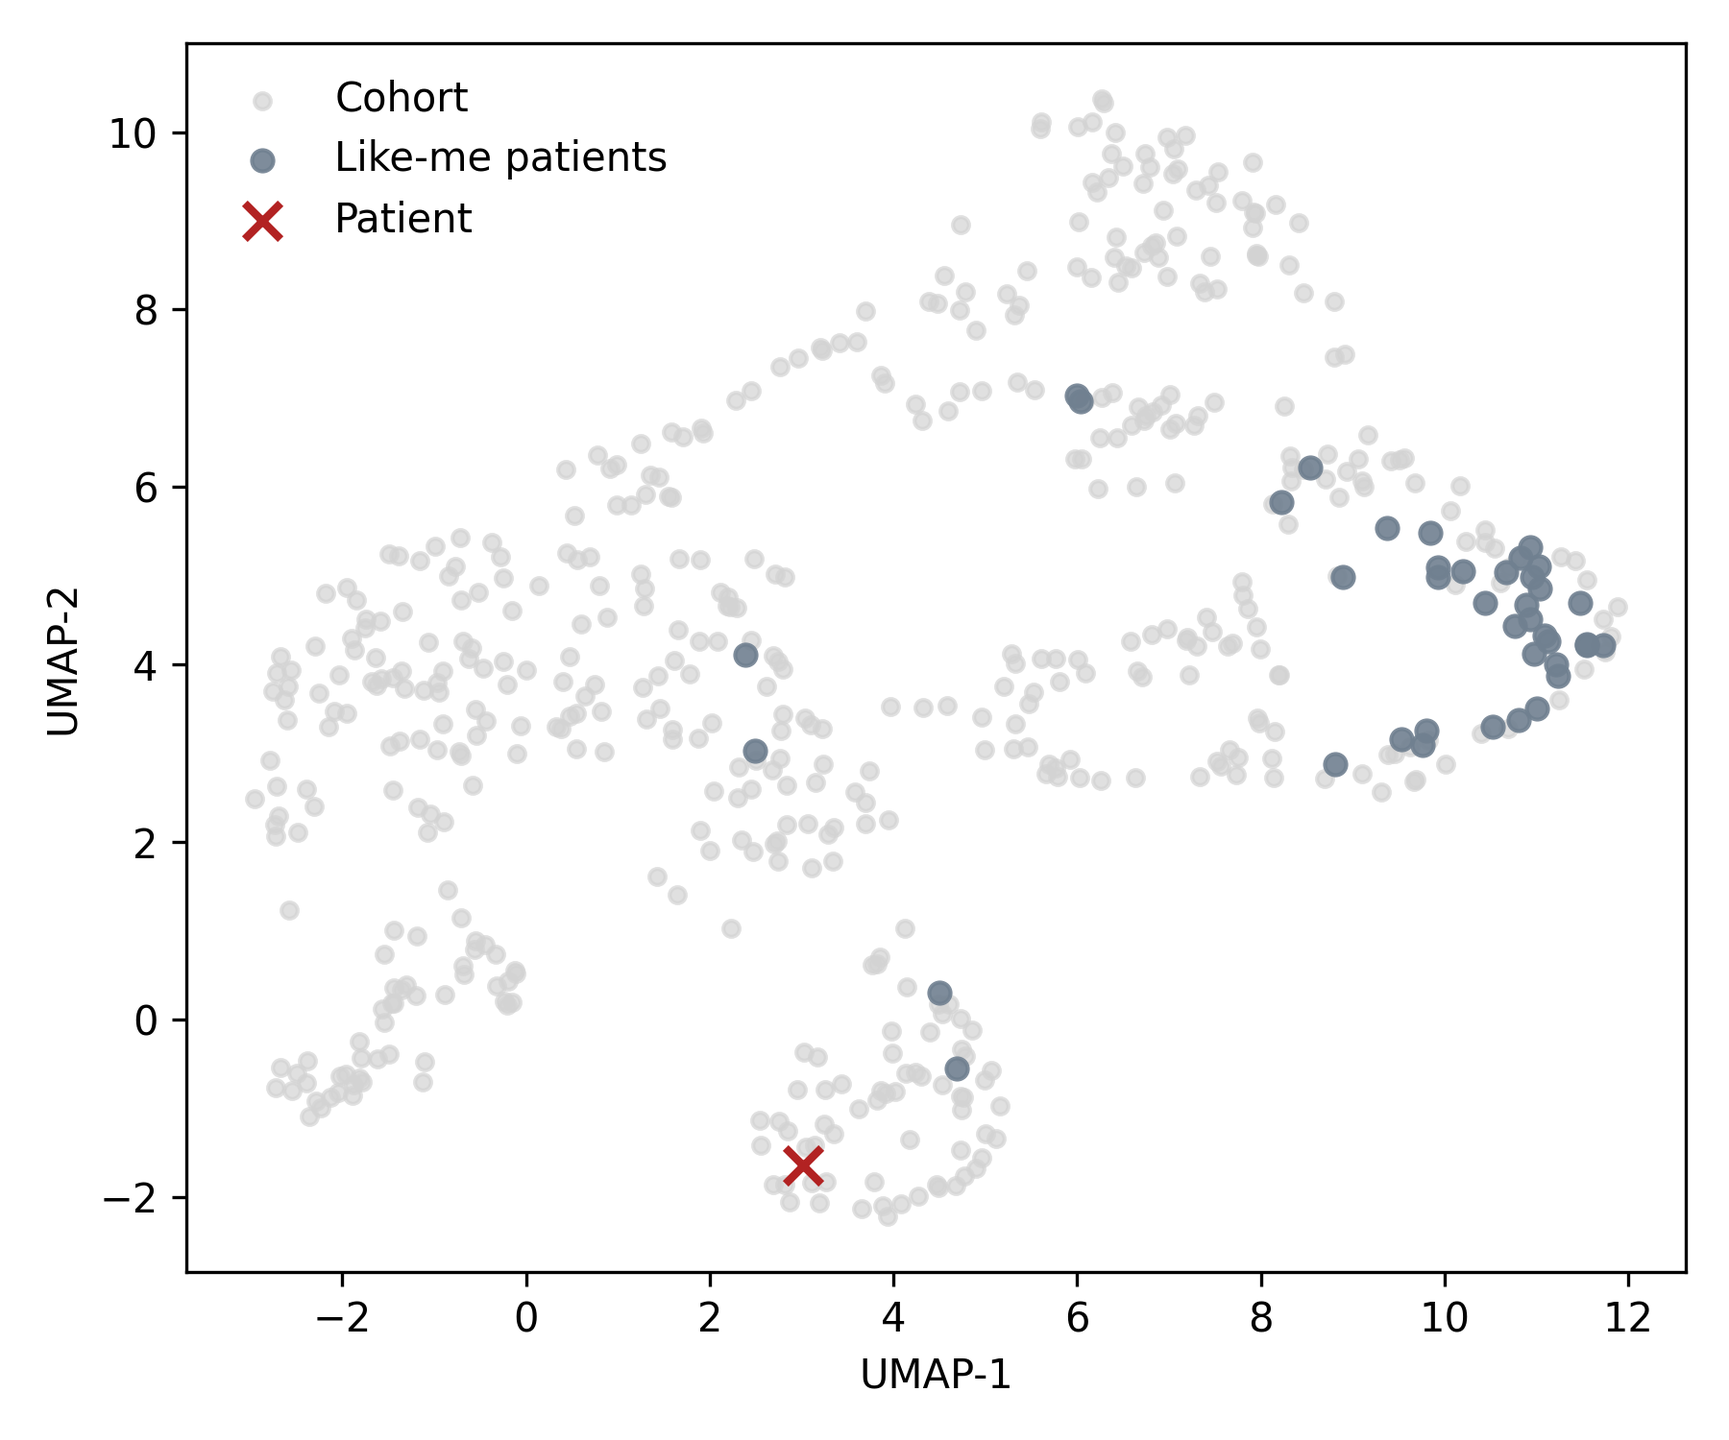
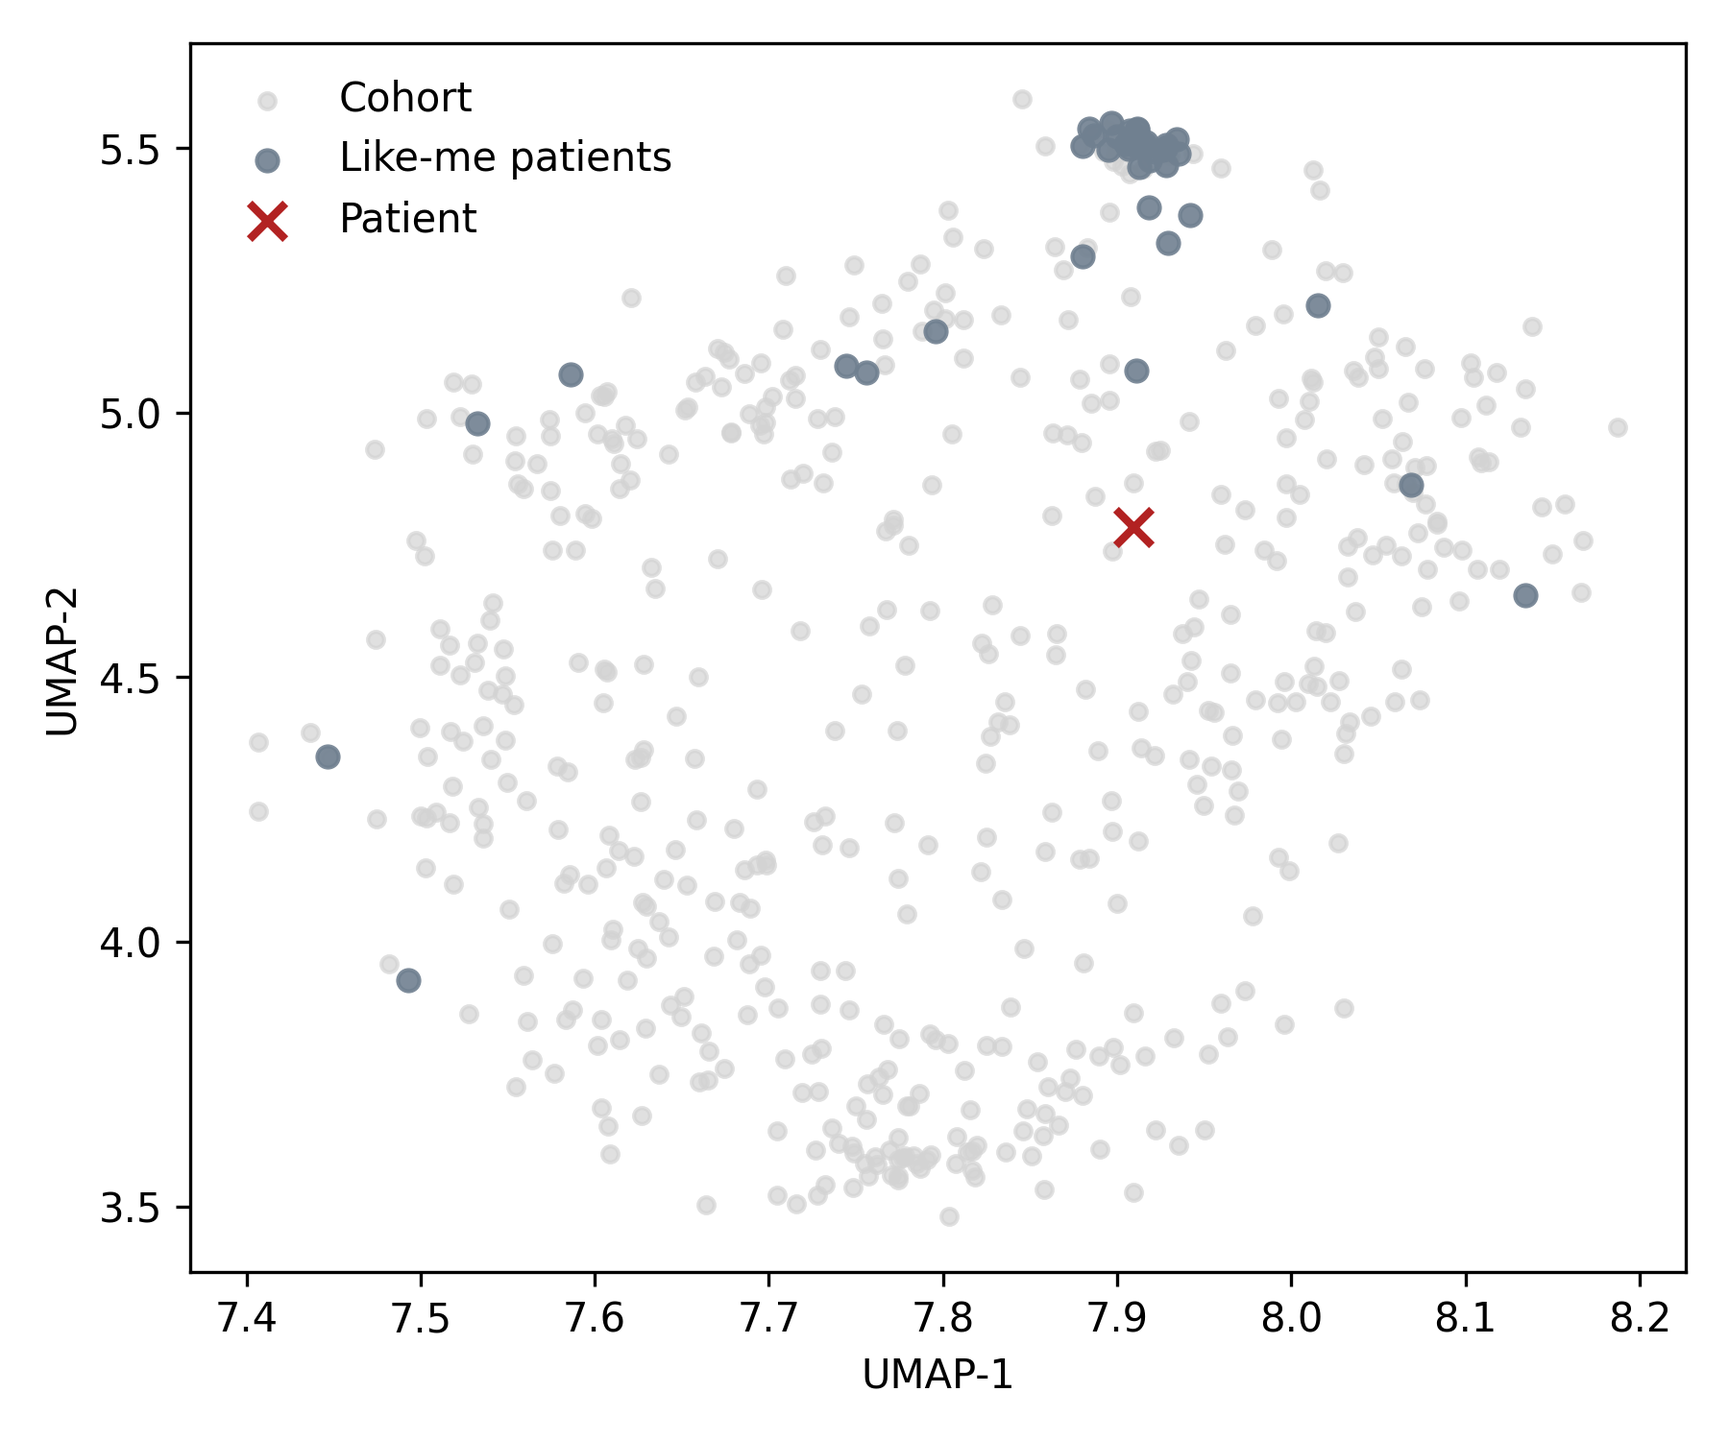
fix grid search for UMAP

diff --git a/UMAP_visuals.py b/UMAP_visuals.py
@@ -6,6 +6,7 @@ from distances import sample, idx
 import pandas as pd 
 import numpy as np
 import time as time
+from datetime import datetime
 
 import matplotlib.pyplot as plt
 from mpl_toolkits.mplot3d import Axes3D
@@ -28,16 +29,18 @@ cohort_mask = ~(patient_mask | like_me_mask)
 
 ################
 # UMAP for loop to tune hyper_params
+randomness = [42, 43, 1997, 1989] #
+neighbors = [10, 20, 40, 80, 100, 150, 200] #
+min_d = [0.0, 0.01, 0.05, 0.10, 0.15, 0.20, 0.30] #
+metric = ['euclidean', 'cosine', 'correlation', 'mahalanobis'] #
+spread = [0.10, 0.20, 0.30, 0.60, 0.80, 0.99] #
+
+umap_performance = pd.DataFrame(columns=['randomness', 'neighbors', 'min_d', 'metric', 'spread', 'within_sum_of_squares', 'between_sum_of_squares', 'ratio'])
+
+number_of_combinations = (len(randomness)*len(neighbors)*len(min_d)*len(metric)*len(spread))
+print(number_of_combinations)
+
 start = time.time()
-
-randomness = [42, 43, 44, 45, 1997, 1989]
-neighbors = [5, 10, 20, 40, 80, 100, 150, 200]
-min_d = [0.0, 0.01, 0.05, 0.10, 0.25, 0.50, 0.75, 0.90, 0.99]
-metric = ['euclidean', 'cosine', 'correlation', 'mahalanobis', 'yule']
-spread = [0.001, 0.05, 0.10, 0.25, 0.50, 0.75, 1.0, 1.5, 2.0, 4.0]
-
-umap_performance = []
-
 for r in randomness:
     for n in neighbors:
         for d in min_d:
@@ -88,7 +91,7 @@ for r in randomness:
                     ratio = within_ss/between_ss
 
                     # save params and performance
-                    umap_performance.append({
+                    iteration_performance = {
                         'randomness': r,
                         'neighbors': n,
                         'min_d': d,
@@ -97,26 +100,30 @@ for r in randomness:
                         'within_sum_of_squares': within_ss,
                         'between_sum_of_squares': between_ss,
                         'ratio': ratio
-                    })
+                    }
+                    umap_performance.loc[len(umap_performance)] = iteration_performance
 
+                    current_time = datetime.now().strftime("%Y-%m-%d")
+                    save_name = f"../Data/umap_performance{current_time}.csv"
+                    umap_performance.to_csv(save_name)
 end = time.time()
 print(f"{(end-start)/60} minutes to run")
 
-# save performance
-umap_performance = pd.DataFrame(umap_performance)
-umap_performance.sort_values(by='ratio', ascending=True, inplace=True)
-umap_performance.to_csv("../Data/umap_performance.csv")
+###################################
+# load final doc and sort performance
+final_performance = pd.read_csv(save_name) # replace with actual file name: "../Data/umap_performance{date}.csv"
+final_performance.sort_values(by='ratio', ascending=True, inplace=True)
 
-umap_performance.head()
+final_performance.head()
 
 #############
 # final UMAP with tuned hyper_params
 reducer = umap.UMAP(
-    n_neighbors=umap_performance['neighbors'].iloc[0],
-    min_dist=umap_performance['min_d'].iloc[0],
-    metric=umap_performance['metric'].iloc[0],
-    spread=umap_performance['spread'].iloc[0],
-    random_state=umap_performance['randomness'].iloc[0]
+    n_neighbors=final_performance['neighbors'].iloc[0],
+    min_dist=final_performance['min_d'].iloc[0],
+    metric=final_performance['metric'].iloc[0],
+    spread=final_performance['spread'].iloc[0],
+    random_state=final_performance['randomness'].iloc[0]
     )
 two_dim = reducer.fit_transform(cohort)
 

diff --git a/README.md b/README.md
@@ -1,15 +1,26 @@
 # A Patients-Like-Me approach to aggregating data in clinical management of concussion
 
-**Purpose:** Complex prediction models, such as neural networks, tree-based classifiers, or even simple regressions, can tell patients and clinicians when an individual is expected to recover from concussion (or a number of other conditions, as these models continue to expand in popularity and use), but suffer from a few main limitations:  
-- Most prediction models are trained on large cohorts with diverse patient and injury characteristics
-    - Thus, generalization to a more precise patient population in a real-world setting can be limitted - patients are left asking "but do these results apply to *me*?" and clinicians are left wondering if prediction models are accurate in thier patient population  
-- Few prediction models can provide clear reasoning for *why* or *how* a prediction is made, or what factors where most influental in the prediction that is made 
-    - Clinicians and patients, therefore, may not always strongly consider the predictions made by the model
+**Summary:** This project demonstrates a simple "like-me" approach to matching patients to a reference cohort based on post-concussion demographic and clinical 
+characteristics. Using a like-me matched sub-cohort, we can then aggregate clinical data for individuals within the reference cohort who are most-similar to the 
+presenting patient, providing summary statistics on recovery and other important health information among individuals from the larger cohort who are "as similar as possible" to 
+the individual being seen for care.  
+
+## Purpose: 
+
+Complex prediction models, such as neural networks, tree-based classifiers, or simple regressions, can inform patients and clinicians about expected recovery timelines. 
+However, these models are limitted by a few factors: 
+- Most prediction models are trained on large cohorts with diverse patient and injury characteristics.
+    - While usually considered a strength, in some contexts generalization to a more precise patient population in a real-world setting can be limitted - patients are left 
+    asking "but do these results apply to *me*?" and clinicians are left wondering if prediction models are accurate in thier patient population.
+- Few prediction models can provide clear reasoning for *why* or *how* a prediction is made, or what factors where most influental in a prediction. 
+    - Clinicians and patients, therefore, may not always strongly consider predictions made by the model
 - Prediction models, especially classifiers, can treat medical diseases as a series of binary decisions made in sequence 
-    - Actual clinical management of disease is more complex, and clinicians must use all available information to guide decisions that promote long-term health and recovery, while prediction models often evaluate the best decision to improve the current disease state with little longitudinal context
+    - Actual clinical management of disease is more complex, and clinicians must use all available information to guide decisions that promote long-term health and recovery, 
+    while prediction models often evaluate the best decision to improve the current disease state with little longitudinal context
 
 Taken together, a quality data science and machine learning approach to supporting practitioners might consider:
-1. Using similarity matching to take the current individuals's clinical presentation (demographics, injury characteristics, etc) and identify past patients with similar characteristics
+1. Using similarity matching to take the current individuals's clinical presentation (demographics, injury characteristics, etc) and identify past patients with similar 
+characteristics
 2. Explore the health and recovery outcomes of those similar past patients to inform potential recovery for the current individual
 3. Package this information together in an easy-to-use dashboard so that clinicians and patients can explore how other's "like them" recovered!
 
@@ -17,38 +28,134 @@ Taken together, a quality data science and machine learning approach to supporti
 
 #### An Overview:
 
-1. A sample of patients seen for post-concussion care in our sports medicine clinic (n=558)
+1. Generate a reference cohort of patients seen for post-concussion care in our sports medicine clinic (n=558)
     - Limit to just the high level features... this is a proof of concept project, so feasability is most important right now (9 features total)
-    - One-hot for categoricals
 2. Impute missing data
-    - Impution strategy was KNN (K=20) 
+    - Impution strategy was KNN (K=40) 
     - Works well for numerics, but doesn't have a built-in option for categoricals
         - My desire would be "most frequent" for categorical imputations
         - Without that as a built-in option, KNN already calculates the mean value for the 'K' nearest neighbors
             - Because categoricals are already one-hot encoded, I can just round to the nearest integer to get the "most frequent" for my imputed values
 3. Normalize the data, Min-Max
     - Need to do this after the imputation, unfortunately. Otherwise my above rounding option won't work
-    - Limitation is that variables are not on the same scale during KNN imputation, which can create some bias. 
-4. Mahalanobis distance tells us how similar an individual vector to a distribution of vectors
-    - Answers the question of "how unique is the current patient's clinical presentation? Are they an outlier or atypical?" 
-5. Evaluate similarity **Possible methods to try** 
-    - Cosine similarity (closer to 1 = similar)
-    - Dot product / max(norm(both vectors)) (closer to 1 = similar)
-    - Euclidean distance (lower = similar)
-    - Mahalanobis distance - accounts for variance and correlation (lower = similar)
-6. Use mean-centering to adjust distances to be more interpretable 
-    - Distances are more-or-less non-interpretable values anyway, so centering at zero at least provides some context...
-6. Do actual clustering algorithm
-    - Extract some meaning from the clusters, what factors are they associated with? What features characterize each cluster?
-    - See what cluster the new patient would fall into
-7. Use UMAP, t-nSE, or PCA to visualize
-    - 1D: Mahalanobis distance for how much of an 'outlier' this person is. 
-        - KDE plot, with patient value highlighted as vertical line?
-    - 2D: Scatter plot with current patient's dot highlighted, and the nearest X number of patients also highlighted
-    - Box-plots: of each feature to show where the patient value stacks up among the patients-like-them 
-    - Some special visual for the recovery outcomes
+    - Limitation is that variables are not on the same scale during KNN imputation, which can create some bias.
+4. Apply some scaling to categorical variables. 
+    - When measuring distances (euclidean, for example), the scale of the data is a major factor
+        - This is why something like min-max scaling is important
+    - But, if many binary variables are present, then those variables after one-hot encoding are all either 0 or 1. 
+        - When numerics are also min-max scaled, then 0 is the lowest value in the dataset and 1 is the largest
+        - Therefore, if comparing a numeric and a categorical, a 1-unit differenc
+         in the categorical variable is a simple difference of binary category. But a 1-unit difference in the numeric variable is the entire range of the variable...
+        - These things are not equal... theoretically, the 'distance' between a boy and a girl (binary sex categorical feature) much smaller than that between the minimum and 
+        maximum value of BESS errors (a balance test). 
+    - How do we fix this?
+        - Scale the categorical variables down after min-max is applied. Multiply the categorical variable by some scalar (I used 0.66), to down-weight the literal distances 
+        between the two levels of the feature.
+            - In this way, they contribute less (66% as much, actually) to the distance measurements. 
+        - Why 0.66? An arbitrary choice on my end. 
+            - Instead, I could have 'tuned' this value. Or, instead, I could have applied a scalar to each variable (categorical and numeric) based on it's univariable 
+            association with a recovery outcome, such as time to symptom resolution.
+                - In doing so, the values for each feature would be scaled based on how much (or little) it seems to contribute to a recovery outcome. And the distances between 
+                patients would be 'recovery informed'... 
+5. Select a single patient at random from the dataset
+    - This person will serve as our "example" patient, or the patient we are trying to compare back to. 
+    - Remove this person from the cohort and hold their info off to the side - will be used throughout in various ways! 
+6. Calculate distance metrics for every person in the cohort (and for our example patient, too)!
+    1. Mahalanobis distance from the cohort
+        - Using Mahalanobis distance, how far is the sample from the mean of the cohort? 
+    2. Mahalanobis distance to the patient
+        - Using Mahalanobis distance, how far is the sample from our example patient?
+    3. Cosine similarity
+        - What is the difference in angle of the sample vector and the example patient vector? Does not account for the magnitude of each vector, though. In a situation where 
+        magnitude is important (scale matters and ratios are not particularly important), cosine similarity may not be a good option...
+    4. Dot product between vectors, normalized by magnitude
+        - Similar to cosine similarity, but is normalized by the magnitude of the largest vector, so magnitude is accounted for. 
+    5. Euclidean distance
+        - Simple and trust-worthy! 
+7. Identify a like-me sub-cohort
+    - Select the n subjects closest to the patient based on any of the above distance metrics 
+        - I used Mahalanobis distance and euclidean distance 
+        - My sub-cohort was n=40, but a larger value is likely preferred if my reference cohort could accomodate. 
+8. Plot clinically-relevant information
+    - Patient characteristics for the sub-cohort
+    - Recovery outcomes for the sub-cohort 
+    - UMAP representations for the entire cohort, with the sub-cohort shown in a different color
 
+## Results and Examples:
 
+#### Overview:
 
+We have n=558 in the reference cohort. One subect was randomly selected to serve as the "example patient". In practice, we would know the example patients clinical 
+characteristics and would use that to identify a like-me sub-cohort based on similar patients from the reference cohort. In practice, we would use the sub-cohorts recovery 
+outcomes to provide the patient with some expectations for their own recovery, based on real data from past persons who are "like them". In this example, however, I have the 
+actual recovery outcomes for the example patient, so I am showing those here as well.  
 
-drop a few of the useless binary cols
+#### Distance metrics:
+
+**Figure 1.** I used Mahalabnobis distance, cosine similarity, normalized dot product, and euclidean distance to determine how similar (close) each sample in the reference 
+cohort was to the example patient. Those distances are plotted below.
+
+<img src="figs\metrics_plot.png" width=800>
+
+*Would not be shown to the clinician!* Mahalanobis distance, euclidean distance, and cosine similarity are decently correlated. The positive relationship between Mahalanobis 
+distance and euclidean distance (scatter plot in row 1, column 4) shows that as euclidean distance increases, Mahalanobis distance increases. 
+<br>
+<br>
+
+**Figure 2A.** Kernel density plot for each samples' Mahalanobis distance from the mean of the cohort. A lower distance (left side of the x-axis) means that the sample is 
+closer to the mean of the cohort. Few patients will be very close to the mean. A larger value (right side of the x-axis) means that the patient is further from the mean of the 
+cohort. The normal distributioin exists because a majoirty of patients are 'about the same' distance from the mean of the cohort (think about this in terms of multiple 
+features, not just univariate). 
+
+<img src="figs\kde_plot_example.png" width=800>
+
+*Clinical interpretation: Most people in the reference cohort are around 4-5 points from the mean of the dataset. That would be 'about' normal, in terms of my patient's 
+clinical presentation. A few subjects are <3 units - closer to the left side on the x-axis, so those people are very similar to the mean of the reference cohort. If I have a 
+patient toward the middle or to the left of the bump here, then that would mean that my patient's characteristics are very similar to many of the other patients in the cohort - 
+they are quite "typical" in their presentation. My patient, designated by the red dashed line, is slightly to the right on the x-axis. This means that my patient has some 
+unique aspects to their clinical presentation that leave them further outside the mean of the reference cohort than most other subects in the reference cohort. If they were 
+even further to the right, such as having a Mahalanobis distance greater than 6 or 7, then I might wonder if my patient's clinical presentation is too unique - if their 
+characteristics are not very similar to the reference cohort and therefore should not be compared to anyone in the cohort using the like-me approach.*  
+<br>
+<br>
+
+**Figure 2B.** UMAP representation in 2-dimensions of the 9-dimensional clinical characteristics for each individual in the cohort.
+
+<img src="figs\UMAP.png" width=800>
+
+*Clinical interpretation: This is a 2-dimensional representation of my patient's clinical characteristics. The axes do not really mean anything, they are a summarization of the 
+9 other variables we have on my patient. I can see that the like-me cohort is very similar to my patient, because they are all close together in 2-dimensional space.*  
+<br>
+<br>
+
+**Figure 3A.** Aggregated clinical characteristics for the like-me sub-cohort of samples most similar to the example patient.
+
+<img src="figs\like_me_aggregated_X.png" width=800>
+
+**Figure 3B.** Aggregated categorical clinical characteristics for the like-me sub-cohort of samples most similar to the example patient.
+
+<img src="figs\like_me_aggregated_X_categoricals.png" width=800>
+
+*Clinical interpretation: These are the characteristics that define the like-me sub-cohort. My patient is plotted alongside the other ~40 samples from the reference cohort who 
+were most like my patient.*
+<br>
+<br>
+
+**Figure 4A.** Aggregated time to symptom resolution for the like-me sub-cohort. The actual patient value is also plotted, though in practice we would not know their time to 
+symptom resolution and would instead be using these plot to generate approximate recovery expectations. 
+
+<img src="figs\like_me_aggregated_time_sx.png" width=800>
+
+**Figure 4B.** Aggregated time to return-to-play for the like-me sub-cohort. The actual patient value is also plotted, though in practice we would not know their time to 
+return-to-play and would instead be using these plot to generate approximate recovery expectations. 
+
+<img src="figs\like_me_aggregated_time_rtp.png" width=800>
+
+**Figure 4C.** Aggregated proportion of patients with Persisting Symptoms After Concussion (PSaC), or symptoms lasting longer than 28-days, for the like-me sub-cohort.
+
+<img src="figs\like_me_aggregated_PSaC.png" width=800>
+
+*Clinical interpretation: Among ~40 subjects from the like-me sub-cohort, this is their aggregated recovery outcomes. From this, I can set expectations for recovery for my 
+current patient, all based on previous patients from my clinic who have similar clinical characteristics.*
+<br>
+<br>
